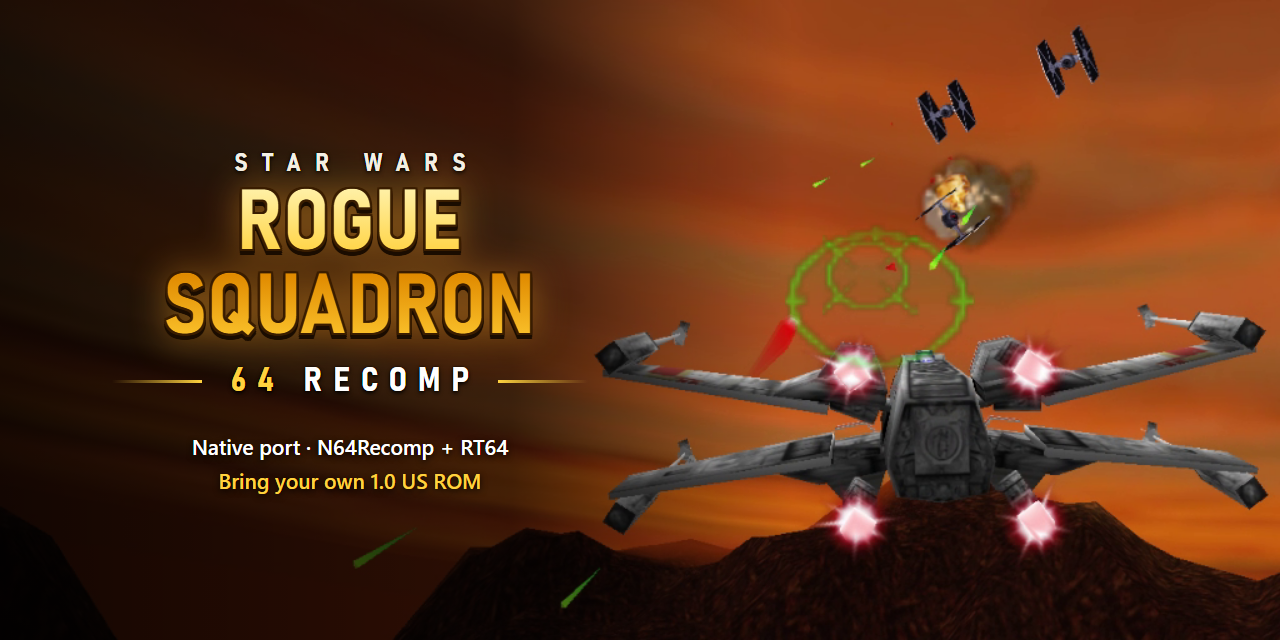
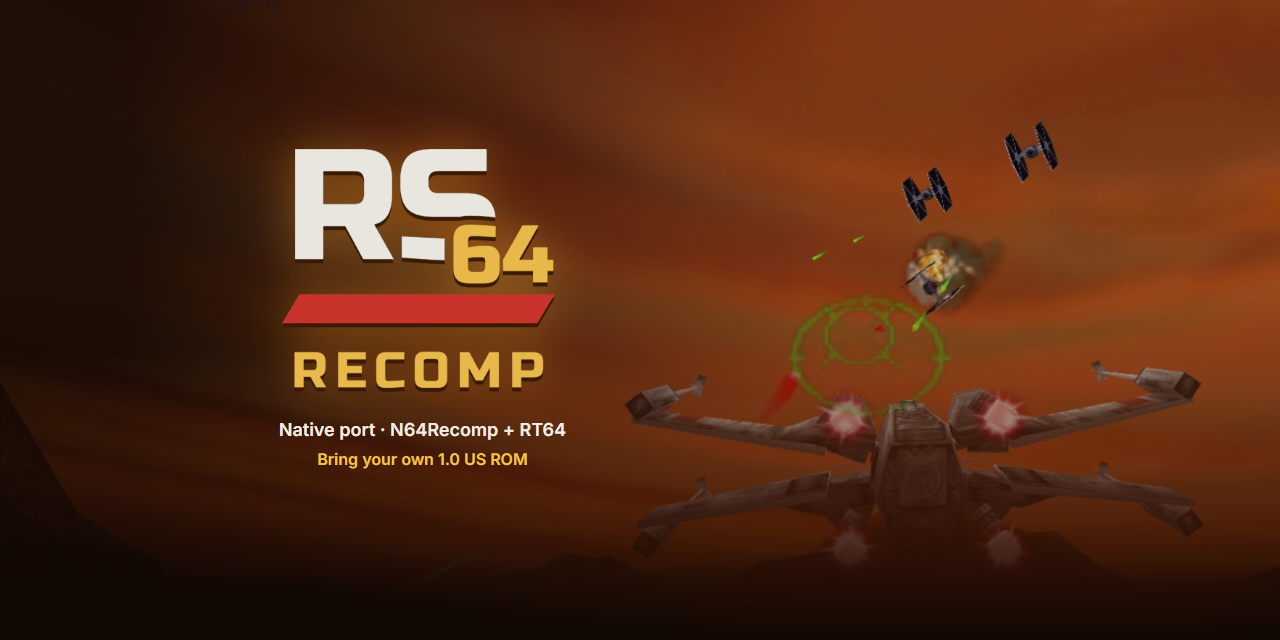
Add Fresh-Clone Setup Scripts
Add Linux and Windows setup flows that check dependencies, fetch submodules and the decomp, import and validate the USA 1.0 ROM, generate recompiled code, and build Release. Update the site branding and use the new logo.

diff --git a/index.html b/index.html
@@ -4,8 +4,8 @@
 <meta charset="utf-8">
 <meta name="viewport" content="width=device-width, initial-scale=1">
 <title>Rogue Squadron 64 Recompiled</title>
-<meta name="description" content="A native PC port of Star Wars: Rogue Squadron (N64), built with N64Recomp and RT64. Bring your own 1.0 US ROM.">
-<meta property="og:title" content="Star Wars: Rogue Squadron 64 Recompiled">
+<meta name="description" content="A native PC port of Rogue Squadron (N64), built with N64Recomp and RT64. Bring your own 1.0 US ROM.">
+<meta property="og:title" content="Rogue Squadron 64 Recompiled">
 <meta property="og:description" content="Native port built with N64Recomp + RT64. Bring your own 1.0 US ROM.">
 <meta property="og:image" content="https://mikesemicolond.github.io/RogueSquadron64Recomp/docs/social-preview.png">
 <meta name="twitter:card" content="summary_large_image">
@@ -72,8 +72,6 @@ section, .hero { scroll-margin-top: 52px; }
   .tabs { justify-content: flex-start; padding: 6px 8px; }
   .tabs a { padding: 6px 10px; font-size: 14px; letter-spacing: .08em; }
   .hero { min-height: 80svh; }
-  .kicker, .sub { letter-spacing: .3em; margin-right: -.3em; }
-  .subrow { gap: 12px; }
   main { padding-top: 32px; }
   .download { font-size: 26px; padding: 16px 36px; }
 }
@@ -171,7 +169,6 @@ body::after {
 @media (min-width: 900px) {
   .hero { align-items: flex-start; padding-left: 8vw; }
   .hero > * { width: 640px; }
-  .subrow { justify-content: center; }
   .actions { justify-content: center; }
 
   .hero > .download {
@@ -183,45 +180,15 @@ body::after {
   }
 }
 
-.kicker, .sub {
-  font-family: Rajdhani, sans-serif;
-  font-weight: 700;
-  letter-spacing: .45em;
-  margin: 0;
-}
+h1 { margin: 12px 0 28px; }
 
-.kicker { font-size: clamp(18px, 3vw, 28px); margin-right: -.45em; }
-
-h1 {
-  margin: 4px 0;
-  font: 700 clamp(56px, 12vw, 120px)/.9 Rajdhani, sans-serif;
-  text-transform: uppercase;
-  background: linear-gradient(180deg, var(--gold-hi) 0%, var(--gold) 45%, var(--gold-lo) 100%);
-  -webkit-background-clip: text;
-  background-clip: text;
-  color: transparent;
+h1 img {
+  display: block;
+  width: min(280px, 60vw);
+  height: auto;
+  margin: 0 auto;
   filter: drop-shadow(0 4px 0 #3a1a02) drop-shadow(0 0 24px rgba(245, 160, 40, .45));
 }
-
-.subrow {
-  display: flex;
-  align-items: center;
-  gap: 24px;
-  margin: 8px 0 28px;
-}
-
-.subrow::before, .subrow::after {
-  content: "";
-  width: clamp(40px, 10vw, 100px);
-  height: 2px;
-  background: linear-gradient(90deg, transparent, var(--gold));
-}
-
-.subrow::after { transform: scaleX(-1); }
-
-.sub { font-size: clamp(20px, 3.4vw, 32px); margin-right: -.45em; }
-
-.sub b { color: var(--gold); }
 
 .tag { margin: 0; font-weight: 600; font-size: 18px; }
 
@@ -484,9 +451,7 @@ footer a { color: var(--gold); }
     <div class="bg on" style="background-image: url('screenshots/Capture7.png')"></div>
     <div class="bg"></div>
   </div>
-  <p class="kicker">STAR WARS</p>
-  <h1>Rogue<br>Squadron</h1>
-  <div class="subrow"><p class="sub"><b>64</b> RECOMP</p></div>
+  <h1><img src="tools/web/logo.png" width="772" height="657" alt="Rogue Squadron 64 Recomp"></h1>
   <p class="tag">Native port &middot; N64Recomp + RT64</p>
   <p class="rom">Bring your own 1.0 US ROM</p>
   <nav class="actions">

diff --git a/tools/setup/import_rom.py b/tools/setup/import_rom.py
@@ -1,0 +1,50 @@
+"""Copy a Star Wars: Rogue Squadron (USA 1.0) ROM to where the build reads it, as big-endian .z64.
+
+Accepts .z64, .v64 (byte-swapped) or .n64 (little-endian). Usage: python tools/setup/import_rom.py <rom>
+"""
+import hashlib
+import sys
+from pathlib import Path
+
+RECOMP = Path(__file__).resolve().parents[2]
+SHA1 = "ed42eed1ee2db646ff7ef94ba8c5421d164a4f0d"
+
+# N64Recomp and make_elf_from_syms.py read the decomp's copy, RSPRecomp (rsp/*.toml) the repo root's.
+DESTS = [RECOMP.parent / "rogue_squadron64" / "rogue_squadron.z64", RECOMP / "rogue_squadron.z64"]
+
+
+def to_z64(data):
+    magic = bytes(data[:4])
+
+    if magic == b"\x37\x80\x40\x12":
+        data[0::2], data[1::2] = data[1::2], data[0::2]
+    elif magic == b"\x40\x12\x37\x80":
+        data[0::4], data[1::4], data[2::4], data[3::4] = data[3::4], data[2::4], data[1::4], data[0::4]
+
+    return data
+
+
+def main():
+    if len(sys.argv) != 2:
+        sys.exit(__doc__)
+
+    src = Path(sys.argv[1].strip().strip("'\"")).expanduser()
+
+    if not src.is_file():
+        sys.exit(f"No file at {src}")
+
+    data = to_z64(bytearray(src.read_bytes()))
+
+    if hashlib.sha1(data).hexdigest() != SHA1:
+        sys.exit(f"{src} is not the USA 1.0 ROM of Star Wars: Rogue Squadron (expected SHA-1 {SHA1} as .z64). USA Rev 1, European and Japanese ROMs are not supported.")
+
+    for dest in DESTS:
+        if not dest.parent.is_dir():
+            sys.exit(f"{dest.parent} does not exist: clone the decomp there first.")
+
+        dest.write_bytes(data)
+        print(f"Wrote {dest}")
+
+
+if __name__ == "__main__":
+    main()

diff --git a/tools/re/make_elf_from_syms.py b/tools/re/make_elf_from_syms.py
@@ -4,12 +4,13 @@
 Function bounds and names come from syms/rogue_squadron.syms.toml (the names the config and mods use); data symbols and any remaining func_ names from the decomp where the vram matches.
 Needs rogue_squadron.z64 in the decomp's root: python tools/re/make_elf_from_syms.py
 """
-import os, sys, tomllib, importlib.util
+import os, sys, tomllib, hashlib, importlib.util
 from pathlib import Path
 
 RECOMP = Path(__file__).resolve().parents[2]
 DECOMP = RECOMP.parent / "rogue_squadron64"
 DECOMP_ELF = "build/roguesquadron.decomp.elf"
+ROM_SHA1 = "ed42eed1ee2db646ff7ef94ba8c5421d164a4f0d"
 
 spec = importlib.util.spec_from_file_location("mk", DECOMP / "tools/make_elf.py")
 mk = importlib.util.module_from_spec(spec); spec.loader.exec_module(mk)
@@ -28,6 +29,10 @@ def read_elf_syms(path):
     return out
 
 def main():
+    # Other versions are separate code builds; with these symbols N64Recomp fails with "Unhandled branch in recomp_entrypoint".
+    rom = DECOMP / "rogue_squadron.z64"
+    if not rom.is_file() or hashlib.sha1(rom.read_bytes()).hexdigest() != ROM_SHA1:
+        sys.exit(f"{rom} must be the USA 1.0 ROM as .z64 (SHA-1 {ROM_SHA1}). USA Rev 1, European and Japanese ROMs are not supported; tools/setup/import_rom.py converts a .v64 or .n64.")
     syms = tomllib.load(open(RECOMP / "syms/rogue_squadron.syms.toml", "rb"))
     secidx = {s[3]: i + 1 for i, s in enumerate(mk.SECTIONS)}
     # syms.toml already contains the config's manual_funcs; N64Recomp rejects them as duplicates.

diff --git a/README.md b/README.md
@@ -2,7 +2,7 @@
 
   [![Rogue Squadron 64 Recompiled icon](./favicon.ico)](https://mikesemicolond.github.io/RogueSquadron64Recomp/)
 
-# Star Wars: Rogue Squadron 64 Recompiled
+# Rogue Squadron 64 Recompiled
 
 </div>
 
@@ -233,6 +233,13 @@ Bindings are saved to `roguesq_input.json` next to the executable.
 </div>
 
 *Uses `mips64-elf-gcc.exe` and `mips64-elf-ld.exe` to compile the patches ELF (`patches/`).
+
+After cloning (step 1), a setup script can do steps 2-4 for you. It asks for your ROM, checks for missing tools (and installs the Linux packages with apt), and builds Release. Re-run it after a `git pull`:
+
+```sh
+bash tools/setup/setup.sh                                                  # Linux
+powershell -ExecutionPolicy Bypass -File tools\setup\setup.ps1             # Windows
+```
 
 ### 1. Clone with submodules
 
